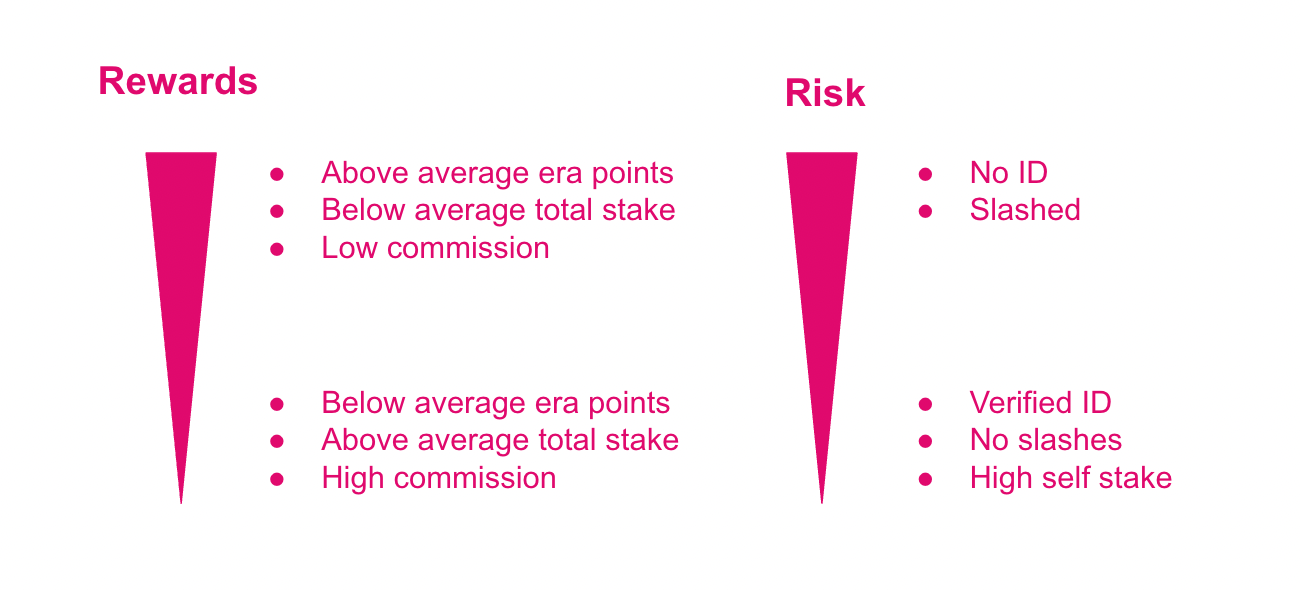
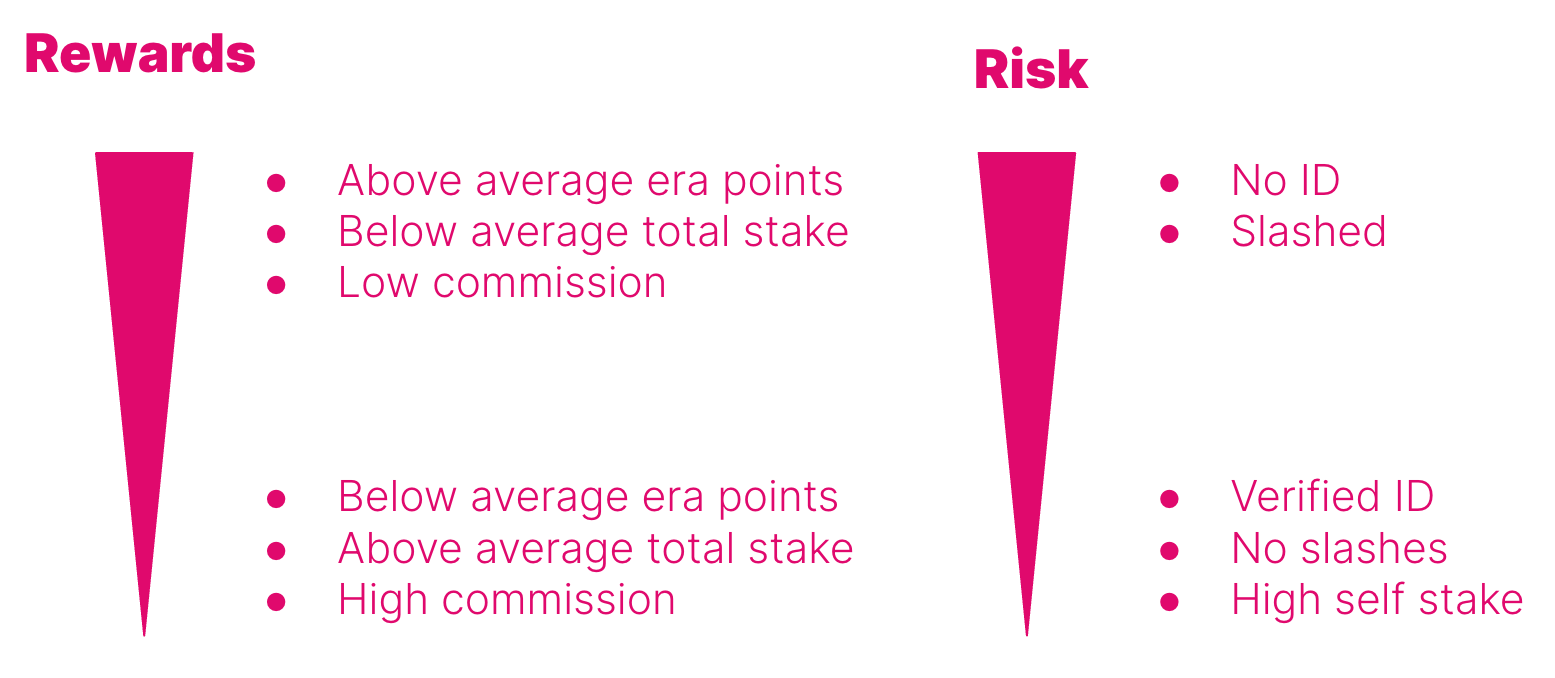
Added figures with Polkadot font
Changed font from ARIAL to INTER, as discussed with Iggy

diff --git a/docs/learn/learn-staking.md b/docs/learn/learn-staking.md
@@ -227,7 +227,7 @@ nominating validators (not in order of importance):
 
 The diagram below shows how the selection of those criteria affects the reward-to-risk ratio.
 
-![rewards and risks diagram](../assets/staking/Reward-risk.png)
+![rewards and risks diagram](../assets/staking/reward-risk.png)
 
 #### Validator Selection Criteria
 
